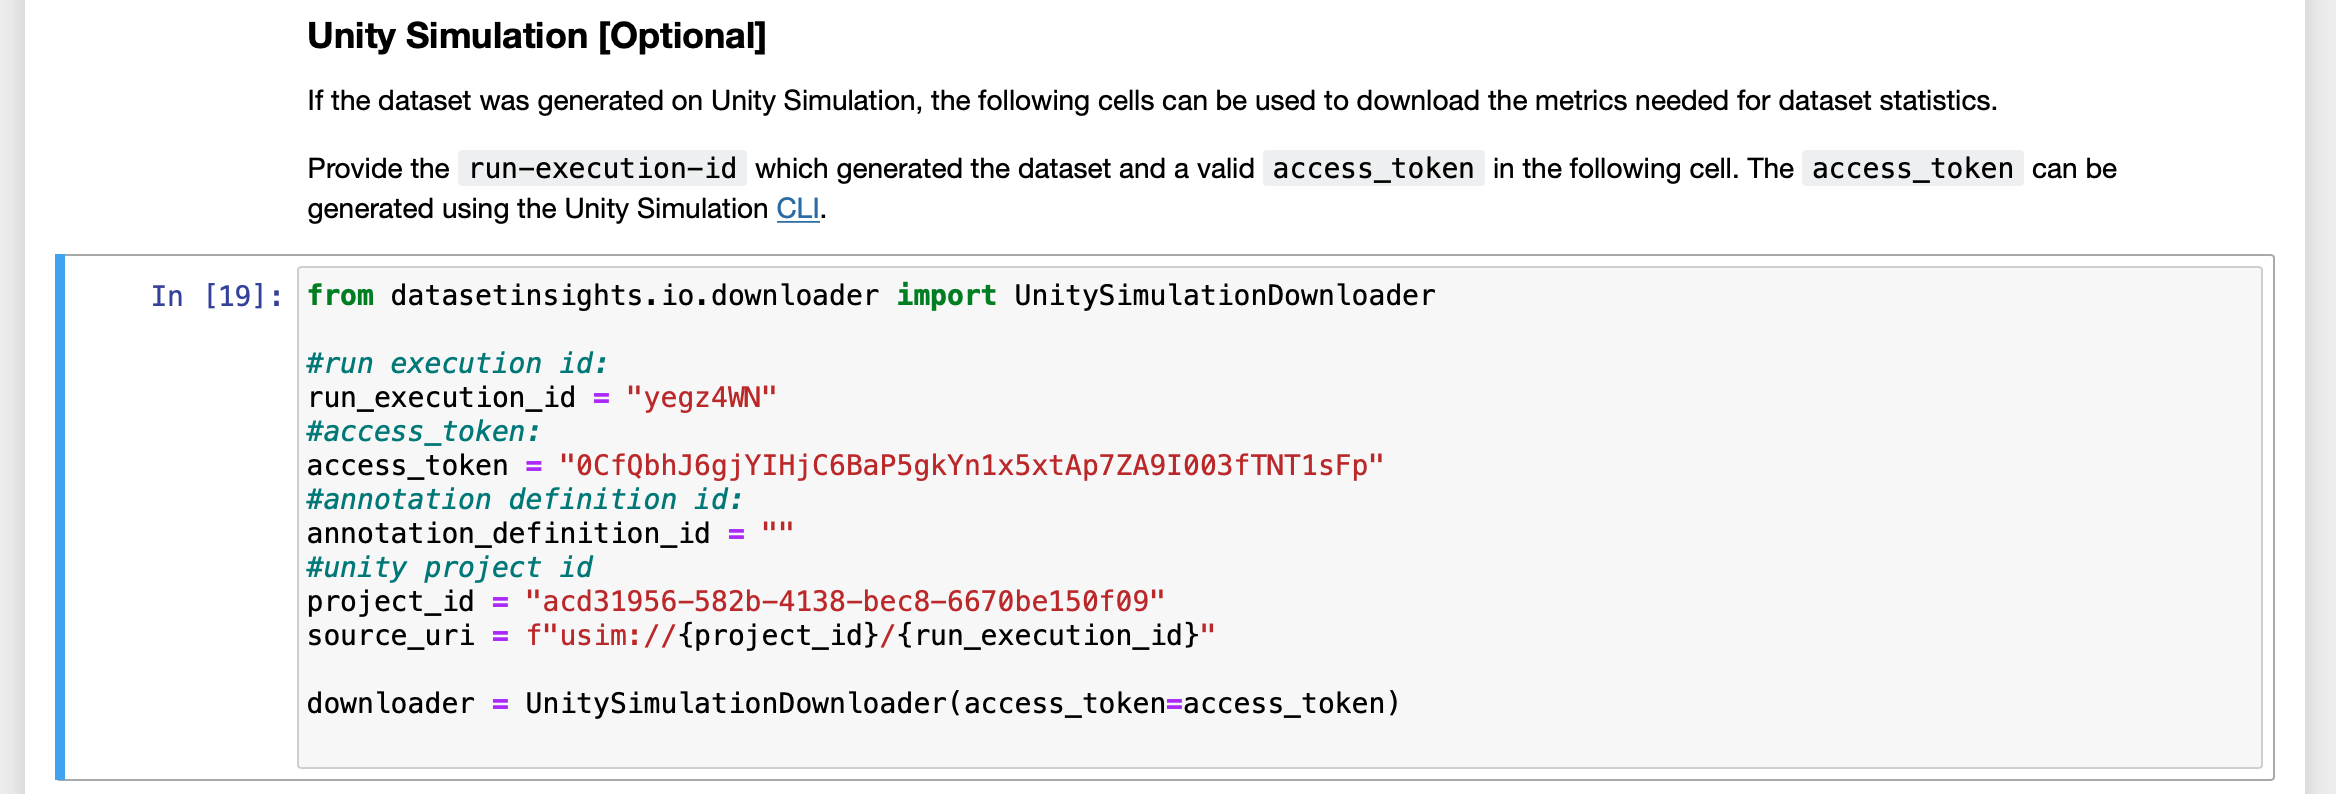
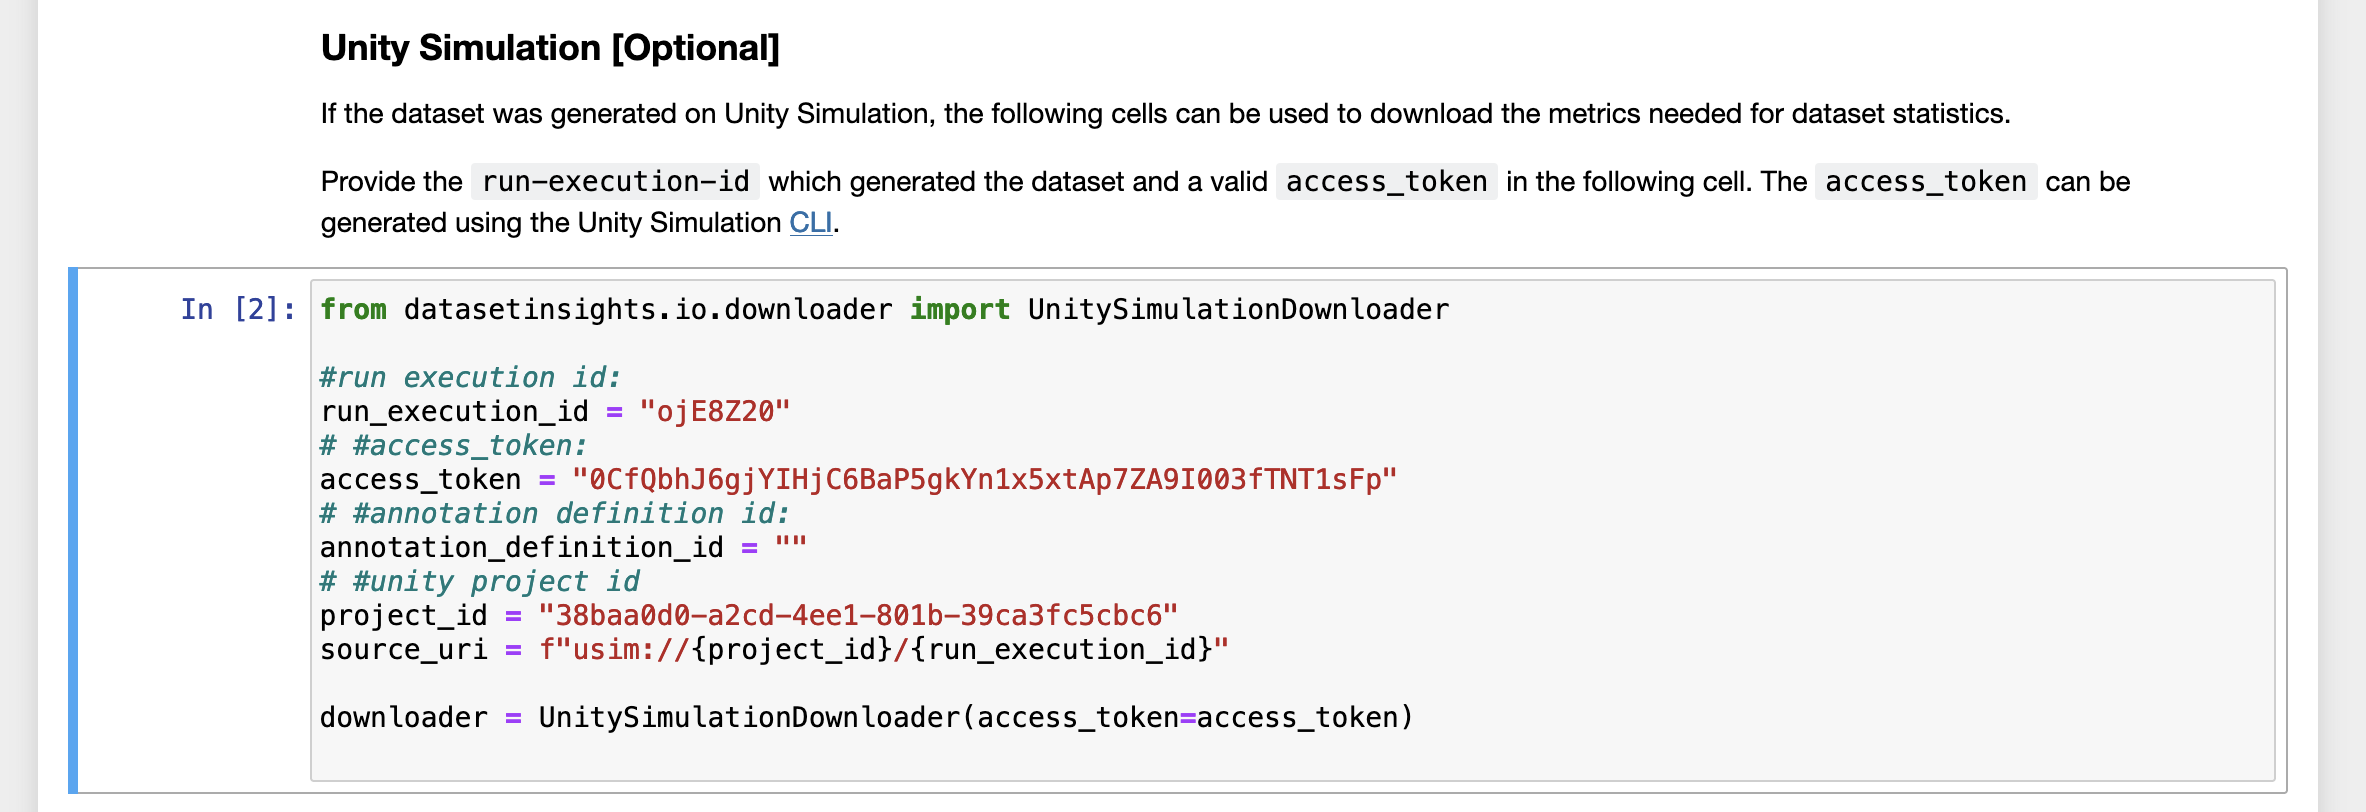
updated project id

diff --git a/com.unity.perception/Documentation~/Tutorial/Phase3.md b/com.unity.perception/Documentation~/Tutorial/Phase3.md
@@ -163,7 +163,7 @@ Example output:
 ```
  name                  id                                       creation time             
 --------------------- ---------------------------------------- --------------------------- 
- Perception Tutorial   acd31956-582b-4138-bec8-6670be150f09 *   2020-09-30T00:33:41+00:00 
+ Perception Tutorial   38baa0d0-a2cd-4ee1-801b-39ca3fc5cbc6 *   2020-09-30T00:33:41+00:00 
  SynthDet              9ec23417-73cd-becd-9dd6-556183946153     2020-08-12T19:46:20+00:00  
  ```
 
@@ -191,7 +191,7 @@ MacOS:
 An example output with 3 runs would look like this:
 
 ```
-Active Project ID: acd31956-582b-4138-bec8-6670be150f09
+Active Project ID: 38baa0d0-a2cd-4ee1-801b-39ca3fc5cbc6
 name        id        creation time         executions                                    
 ----------- --------- --------------------- -----------------------------------------------
  FirstRun    1tLbZxL   2020-10-01 23:17:50    id        status        created_at           
